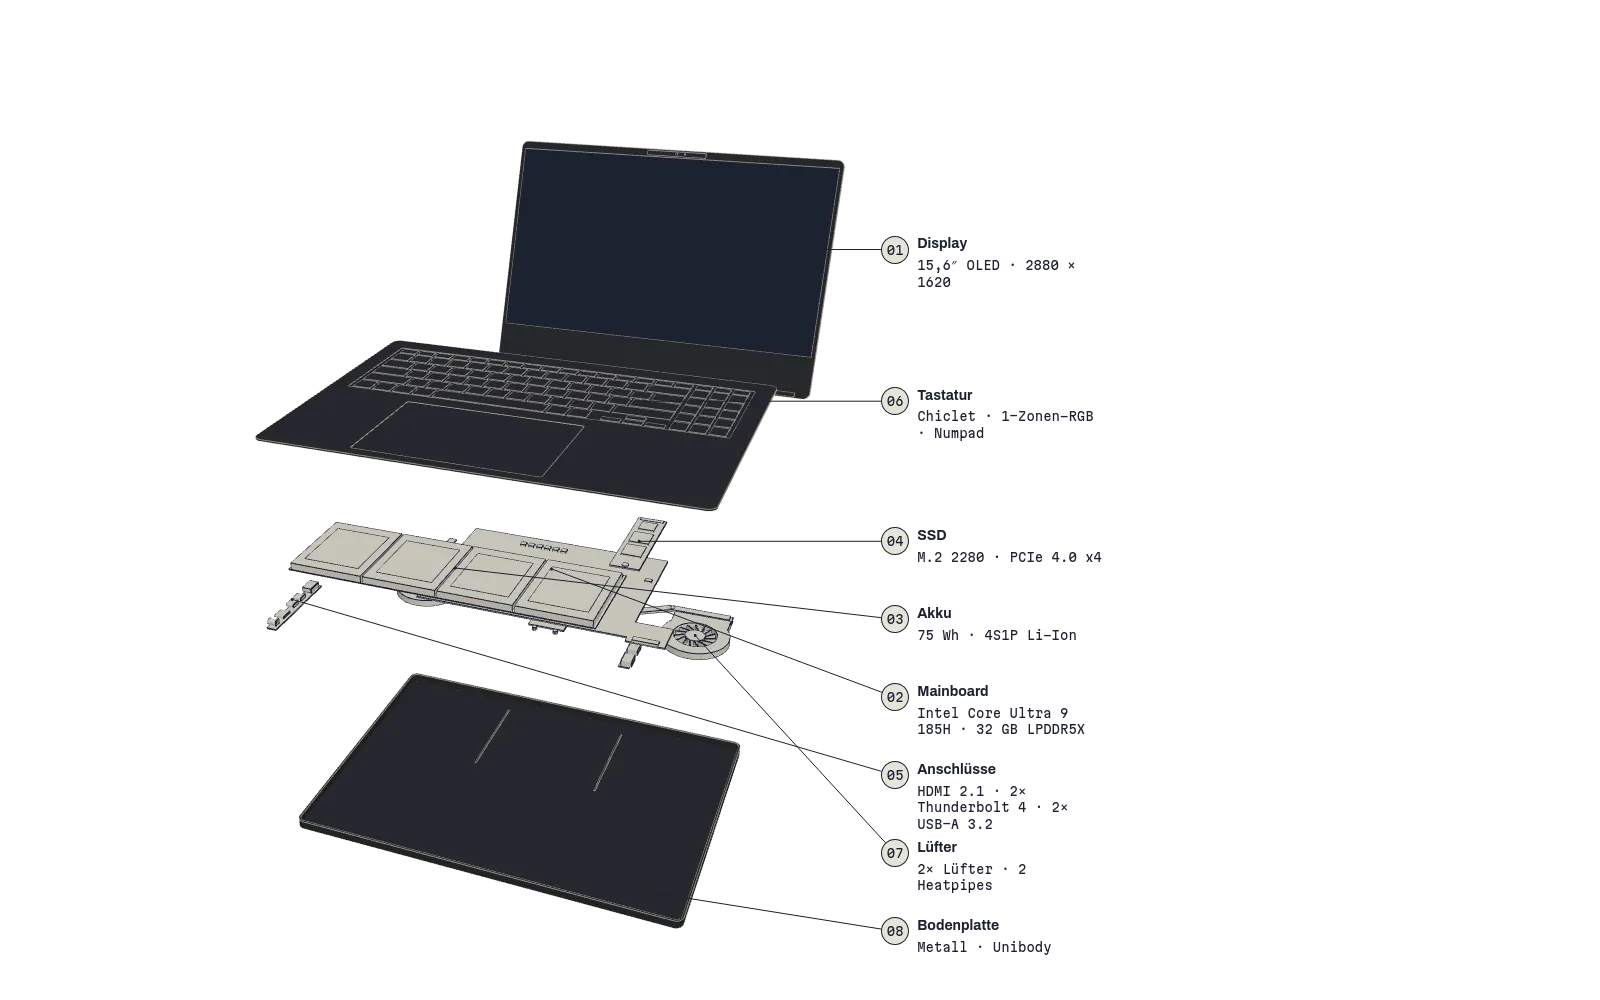
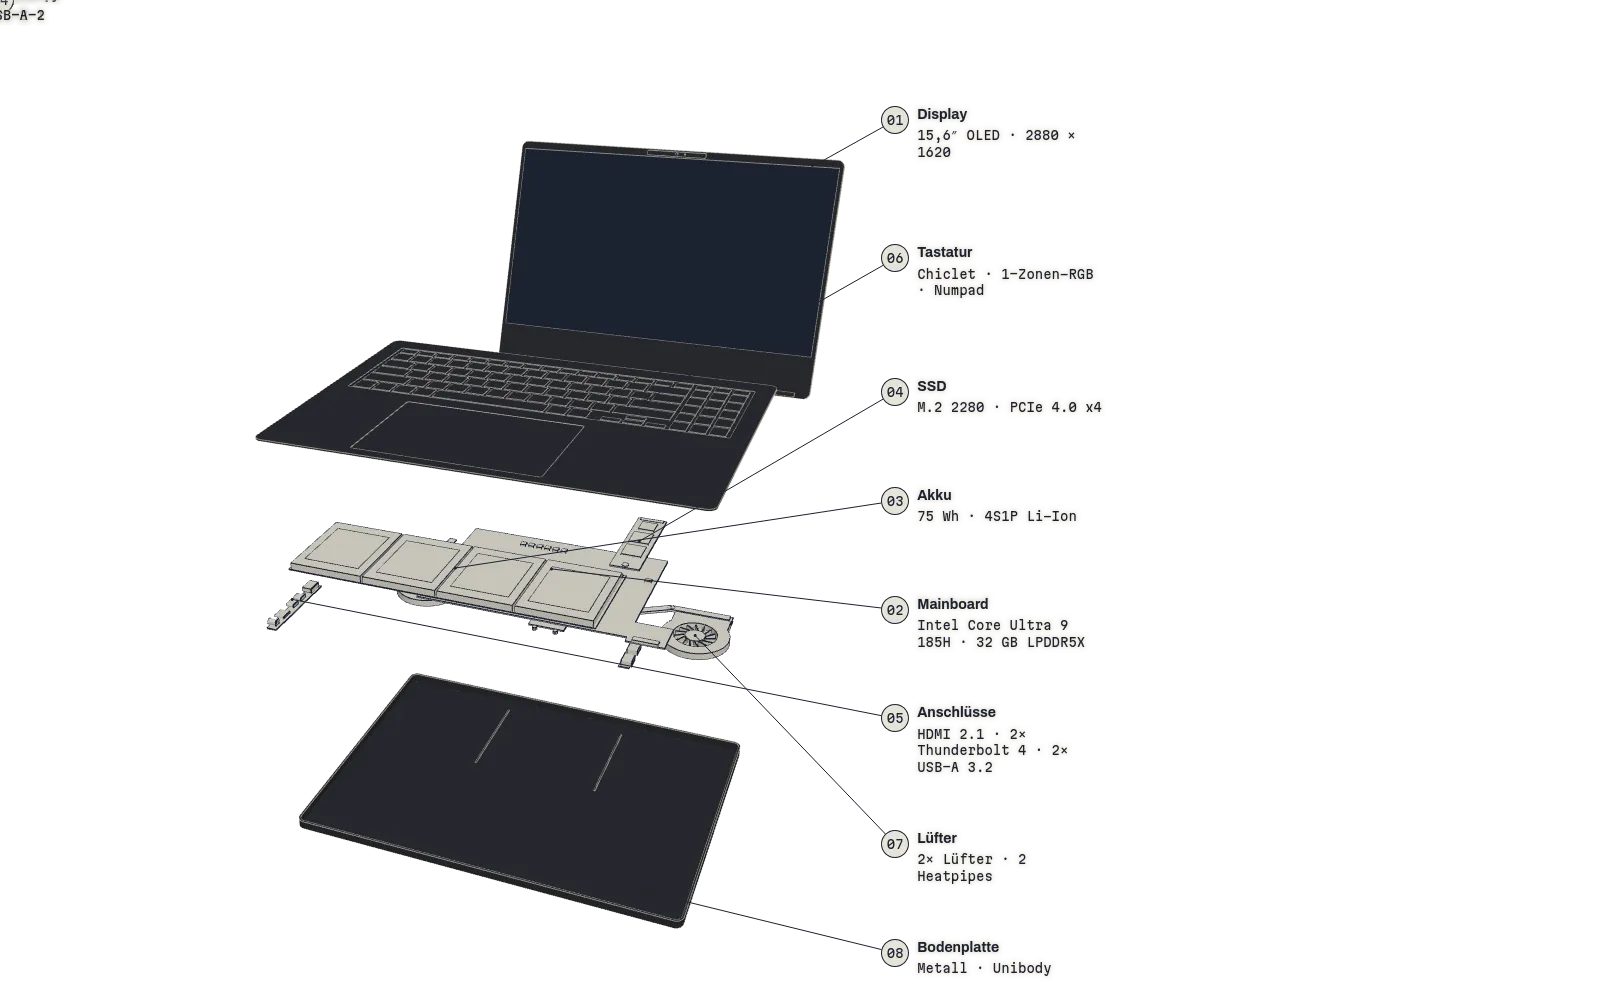
Phase 12: orange Hervorhebungen, große Skills-Liste, Lebenslauf-Vorschau (T085, T087)
Leiterbahnen-Animation nach Sichtung wieder entfernt, orange Akzente bleiben
(Name-Unterstrich, h2, Kopfzeilen-Streifen, Stücklisten-Hover).

diff --git a/src/styles/sections.css b/src/styles/sections.css
@@ -13,6 +13,18 @@ html.intro .hero__lead { opacity: 0; }
   letter-spacing: var(--track-hero);
   text-wrap: balance;
   max-width: 12ch;
+  width: min-content; /* Breite = längster Namenszug, darunter die Hauptleitung */
+}
+/* Hauptleitung (T085): 10 px orange, Lötpunkte (14 px) an beiden Enden */
+#hero h1::after {
+  content: "";
+  display: block;
+  height: var(--dot);
+  margin-top: var(--s-4);
+  background:
+    radial-gradient(circle closest-side, var(--orange) 92%, transparent 100%) left center / var(--dot) var(--dot) no-repeat,
+    radial-gradient(circle closest-side, var(--orange) 92%, transparent 100%) right center / var(--dot) var(--dot) no-repeat,
+    linear-gradient(var(--orange), var(--orange)) center / 100% var(--bar-name) no-repeat;
 }
 .hero__lead {
   margin-top: var(--s-6);
@@ -53,7 +65,8 @@ tbody tr:last-child > * { border-bottom-color: var(--ink); }
 #bom td, #bom tbody th { font-size: var(--t-small); line-height: var(--t-small-lh); }
 #bom tbody th { font-size: var(--t-data); }
 #bom tbody th, #bom tbody td { padding-left: var(--s-3); }
-#bom tbody tr:hover > * { background: var(--paper-hi); }
+#bom tbody tr:is(:hover, :focus-within) > * { background: var(--orange); }
+#bom tbody tr:is(:hover, :focus-within) a { color: var(--ink); }
 #bom [data-part] { transition: background var(--d-micro) linear; }
 
 /* Projekt-Datenblätter */
@@ -118,6 +131,20 @@ html.scene-on #projekte-alle tr:is(:hover, :focus-within) { background: var(--pa
 
 /* Lebenslauf */
 #lebenslauf .links { margin-top: 0; font-size: var(--t-body); line-height: var(--t-body-lh); }
+/* Vorschau der ersten Seite als Blatt: dünne Ink-Kontur, oranger Versatz-Streifen; nur Dekoration (alt="") */
+#lebenslauf .cv-sheet {
+  display: block;
+  width: 100%;
+  max-width: 14rem;
+  height: auto;
+  margin-top: var(--s-5);
+  border: var(--line) solid var(--ink);
+  background: var(--paper-hi);
+  box-shadow: var(--s-2) var(--s-2) 0 var(--orange);
+}
+@media (min-width: 900px) {
+  html.choreo #lebenslauf .cv-sheet { max-width: min(16rem, 100%); }
+}
 
 /* Kontakt */
 .lead { font-size: var(--t-lead); line-height: var(--t-lead-lh); margin-bottom: var(--s-3); }
@@ -158,6 +185,24 @@ html.choreo #kontakt .ports li { counter-increment: port; }
 html.choreo #kontakt .port::before { content: 'K' counter(port) '\00a0\00a0'; }
 
 @media (min-width: 900px) {
+  /* Skills mit Choreografie: große Liste, eine Zeile je Skill, Nummer wie im Szenen-Label (S1…) */
+  html.choreo .skill-list { display: block; }
+  html.choreo .skill-list li {
+    display: flex;
+    align-items: baseline;
+    gap: var(--s-4);
+    padding: var(--s-2) var(--s-2);
+    min-width: 0;
+    font-size: var(--t-skill);
+    line-height: var(--t-skill-lh);
+    font-weight: 700;
+    font-stretch: var(--wdth-title);
+    transition: background-color var(--d-micro);
+  }
+  html.choreo .skill-list li::before { flex: none; width: 2.25em; color: var(--orange-ink); }
+  html.choreo .skill-list li:is(:hover, :focus-within) { background: var(--orange); }
+  html.choreo .skill-list li:is(:hover, :focus-within)::before { color: var(--ink); }
+
   .step {
     grid-template-columns: minmax(0, 1fr) minmax(0, 28rem);
     column-gap: var(--s-7);

diff --git a/src/styles/tokens.css b/src/styles/tokens.css
@@ -95,6 +95,8 @@
   --t-h3-lh: 1.2;
   --t-h2: clamp(2.25rem, 4vw + 1rem, 3.75rem);
   --t-h2-lh: 1.05;
+  --t-skill: 2.5rem;     /* Skill-Liste (Desktop mit Szene) */
+  --t-skill-lh: 1.15;
   --t-hero: clamp(3.5rem, 9vw + 1rem, 9rem);
   --t-hero-lh: 0.92;
 
@@ -102,6 +104,10 @@
   --hair: 0.5px;         /* Maßhilfslinien (min. 1 Gerätepixel) */
   --line: 1px;           /* Konturen, Tabellen-, Beschriftungslinien */
   --line-bold: 2px;      /* aktives Teil, Fokus */
+  --bar-head: 3px;       /* oranger Streifen unter der Kopfzeile */
+  --bar-h2: 6px;         /* oranger Unterstrich der Abschnittsüberschriften */
+  --bar-name: 10px;      /* oranger Unterstrich des Namens (Hauptleitung) */
+  --dot: 14px;           /* Lötpunkte an der Hauptleitung */
 
   /* Abstände (4px-Raster) */
   --s-1: 4px;

diff --git a/tests/content.test.ts b/tests/content.test.ts
@@ -129,4 +129,13 @@ describe('Regel 6: Lebenslauf-PDFs je Sprache', () => {
     for (const lang of ['de', 'en'] as const)
       expect(existsSync(join(root, 'public', cv[lang])), `cv.file.${lang}: ${cv[lang]}`).toBe(true);
   });
+
+  it('cv.preview de/en existieren unter public/ und sind <= 60 KB', () => {
+    const pv = strings['cv.preview'] as { de: string; en: string };
+    for (const lang of ['de', 'en'] as const) {
+      const f = join(root, 'public', pv[lang]);
+      expect(existsSync(f), `cv.preview.${lang}: ${pv[lang]}`).toBe(true);
+      expect(statSync(f).size, `cv.preview.${lang} Größe`).toBeLessThanOrEqual(60 * 1024);
+    }
+  });
 });

diff --git a/src/sections/lebenslauf.html b/src/sections/lebenslauf.html
@@ -4,4 +4,5 @@
     <a href="{{@root}}{{cv.file}}" target="_blank" rel="noopener">{{cv.view}}<span class="sr-only"> ({{proj.newTab}})</span></a>
     <a href="{{@root}}{{cv.file}}" download="{{cv.downloadName}}">{{cv.download}}</a>
   </p>
+  <img class="cv-sheet" src="{{@root}}{{cv.preview}}" alt="" width="560" height="791" loading="lazy" decoding="async">
 </section>

diff --git a/src/styles/layout.css b/src/styles/layout.css
@@ -54,7 +54,7 @@ body {
   align-items: baseline;
   gap: var(--s-2) var(--s-5);
   padding: var(--s-4) var(--gutter);
-  border-bottom: var(--line) solid var(--ink);
+  border-bottom: var(--bar-head) solid var(--orange);
 }
 .head__doc { margin-right: auto; }
 .head__lang { display: flex; gap: var(--s-3); font-size: var(--t-small); line-height: var(--t-small-lh); }

diff --git a/src/styles/base.css b/src/styles/base.css
@@ -39,6 +39,10 @@ h2 {
   font-weight: var(--wght-title);
   font-stretch: var(--wdth-title);
   text-wrap: balance;
+  /* 6 px oranger Unterstrich über die Textbreite (T085); schwarzer Text liegt darüber */
+  text-decoration: underline var(--orange) var(--bar-h2);
+  text-decoration-skip-ink: none;
+  text-underline-offset: 0.12em;
 }
 
 h3 {

diff --git a/specs/001-explosionszeichnung/tasks.md b/specs/001-explosionszeichnung/tasks.md
@@ -168,8 +168,8 @@ v1-Quelle: `~/Projects/portfolio/` (nur lesen, nichts dort ändern).
 - [X] T070 [S] Bundle-Budget prüfen (`vite build` → JS gzip ≤ 350 KB); three nur über benannte Importe
 - [X] T071 [P] [S] Lighthouse-ähnliche Messung ohne Chromium: in normalem Firefox Netzwerk „Fast 4G“, LCP/bedienbar laut SC-003 messen und in `docs/messungen.md` notieren
 - [X] T072 [P] [H] `README.md` aktualisieren (Befehle, Aufbau, Regeln) und `AGENTS.md` wie in v1 anlegen; bestehende `CLAUDE.md` (Modell-Routing) behalten und um `@AGENTS.md` ergänzen
-- [ ] T073 **(Haupt-Session, nicht delegieren – braucht Rustam)** Alle quickstart.md-Szenarien durchgehen, Screenshots mit Rustam anschauen, Korrekturen
-- [ ] T074 **(Haupt-Session, nicht delegieren – braucht Rustam)** Rustam fragen: GitHub-Repo/Pages? (Constitution: nur nach OK)
+- [X] T073 **(Haupt-Session, nicht delegieren – braucht Rustam)** Alle quickstart.md-Szenarien durchgehen, Screenshots mit Rustam anschauen, Korrekturen
+- [X] T074 **(Haupt-Session, nicht delegieren – braucht Rustam)** Rustam fragen: GitHub-Repo/Pages? (Constitution: nur nach OK)
 
 **Checkpoint**: Alles abgenommen. Danach committen und auf Rustams OK warten.
 
@@ -186,8 +186,8 @@ v1-Quelle: `~/Projects/portfolio/` (nur lesen, nichts dort ändern).
 - [X] T083 Farbkonzept geklärt (mehr Orange, einzige Signalfarbe, interaktives scrollgebundenes Muster, keine Gitter)
 - [X] T084 Designvorschlag erstellt, Variante A · Leiterbahnen gewählt (`docs/design.md`)
 - [X] T086 Projekt-Vorschau größer (Kamera `projekte`, Display 1,6× Desktop / 2,9× Mobil)
-- [ ] T085 [S] Variante A umsetzen laut `docs/design.md`: Canvas-2D-Ebene `#pattern` (fixed, hinter Szene und Text, `aria-hidden`, zeichnet nur bei Scroll/Maus/Resize, pausiert bei unsichtbarem Tab, DPR ≤ 1, ≤ 1 ms/Frame, JS ≤ +4 KB gzip) mit Leiterbahnen in den Rändern, Wachstum von oben nach unten am Scrollfortschritt, Lötpunkten, Maus-Hover, Maske hinter Textspalten (Kontrast AA), reduced statisch, mobil dünner und nur Scroll; `h2` mit 6 px orangem Unterstrich; Hero: Name mit 10 px orangem Unterstrich als Hauptleitung, Lötpunkte an den Enden, erste Bahnen starten dort; schmaler oranger Streifen unter der Kopfzeile; Stücklisten-Hover orange; Standbild `npm run still` und Link-Vorschau `npm run brand` neu erzeugen; Screenshots aller Modi und Kontraste prüfen, fps ≥ 55 (`npm run perf`)
-- [ ] T087 [S] [US1] Desktop-Leerflächen nutzen: in den gepinnten Abschnitten links/rechts mehr Gewicht (größere Typo, orange Akzente, das Leiterbahnen-Muster), Entscheidung am Bild mit Rustam, danach Hero-Wirkung der ersten 10 Sekunden prüfen (Screenshots `hero@1440`, `hero@390`)
+- [X] T085 [S] Variante A umsetzen laut `docs/design.md`: Canvas-2D-Ebene `#pattern` (fixed, hinter Szene und Text, `aria-hidden`, zeichnet nur bei Scroll/Maus/Resize, pausiert bei unsichtbarem Tab, DPR ≤ 1, ≤ 1 ms/Frame, JS ≤ +4 KB gzip) mit Leiterbahnen in den Rändern, Wachstum von oben nach unten am Scrollfortschritt, Lötpunkten, Maus-Hover, Maske hinter Textspalten (Kontrast AA), reduced statisch, mobil dünner und nur Scroll; `h2` mit 6 px orangem Unterstrich; Hero: Name mit 10 px orangem Unterstrich als Hauptleitung, Lötpunkte an den Enden, erste Bahnen starten dort; schmaler oranger Streifen unter der Kopfzeile; Stücklisten-Hover orange; Standbild `npm run still` und Link-Vorschau `npm run brand` neu erzeugen; Screenshots aller Modi und Kontraste prüfen, fps ≥ 55 (`npm run perf`) — Entscheidung Rustam 2026-11-09: Leiterbahnen-Animation (Canvas `#pattern`) wieder entfernt, orange Hervorhebungen (Name, h2, Streifen, Stücklisten-Hover) bleiben
+- [X] T087 [S] [US1] Desktop-Leerflächen nutzen: in den gepinnten Abschnitten links/rechts mehr Gewicht (größere Typo, orange Akzente, das Leiterbahnen-Muster), Entscheidung am Bild mit Rustam, danach Hero-Wirkung der ersten 10 Sekunden prüfen (Screenshots `hero@1440`, `hero@390`)
 - [ ] T080 [S] [US1] Knopf „Live-Demo“ im Datenblatt (`[data-step]`, nur bei Projekten mit `demo`), Zustand `demoOpen` (state/choreo), Escape/„Schließen“, Tastaturbedienung; ohne 3D/JS/reduced normaler Link in neuem Tab; auf dem Handy öffnet der Knopf die Demo in neuem Tab
 - [ ] T081 [O] [US1] Kamera zoomt auf das Display (neuer Keyframe `demo`), `<iframe>` deckungsgleich über der projizierten Displayfläche (Eckpunkte pro Frame, `transform` per CSS), Scroll- und Tastaturfokus sauber getrennt (Lenis pausieren, `inert` für Seite), iframe erst bei Klick laden und beim Schließen entfernen; Fokus kehrt zum Knopf zurück
 - [ ] T082 [S] [US1] Tests und Screenshots (Zoom-Zustand, Schließen, Fokus-Rückgabe), Messung fps mit offenem iframe in `docs/messungen.md`, `contracts/dom.md` um Hooks (`[data-demo]`, `#demo-frame`, `#pattern`) ergänzen
